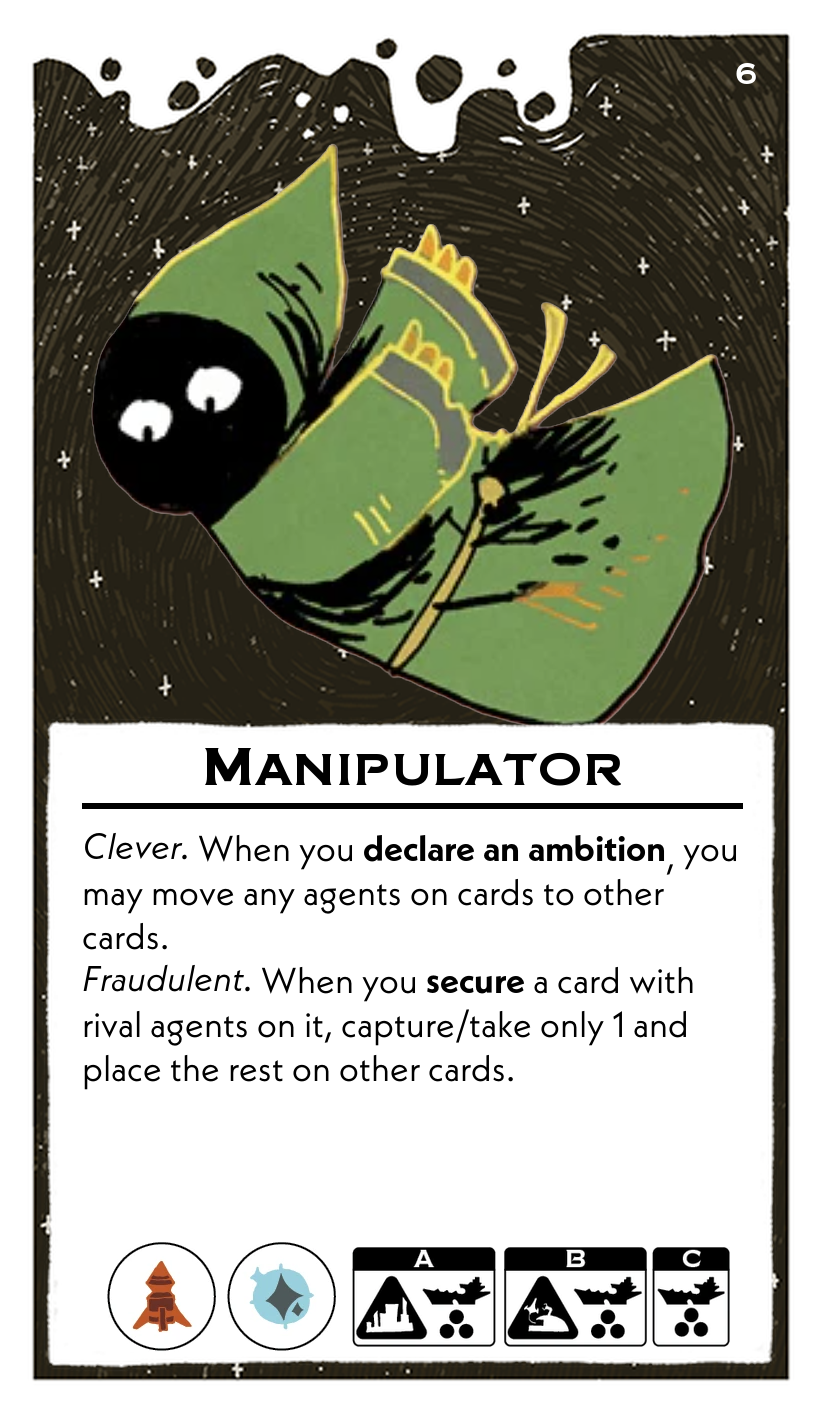
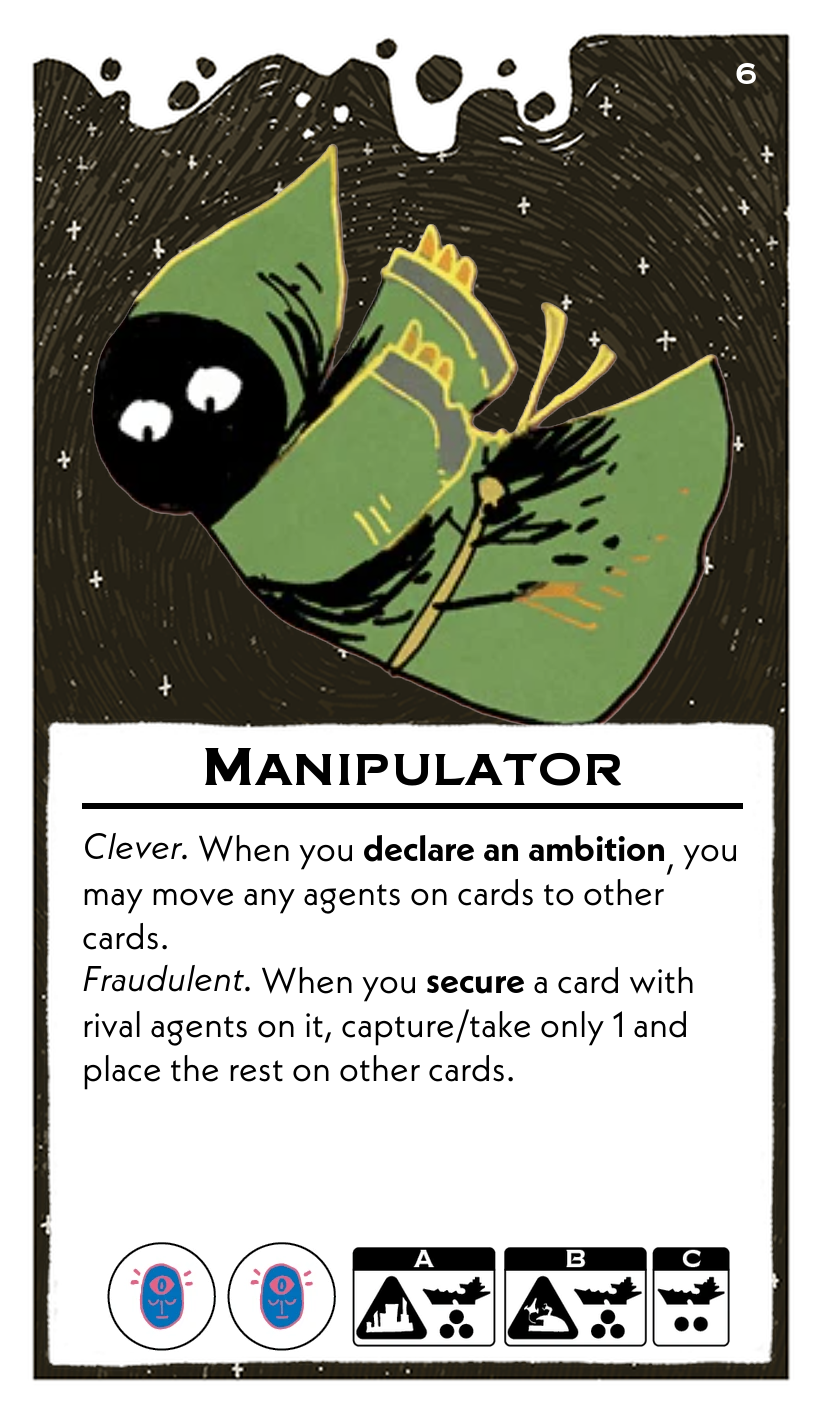
mpwd

Changed region(s): [[0.3041, 0.8713, 0.3954, 0.9646], [0.1521, 0.8713, 0.2433, 0.9646], [0.8212, 0.9024, 0.8516, 0.9646]]

diff --git a/scripts/leadersFormatted.py b/scripts/leadersFormatted.py
@@ -85,11 +85,11 @@ leaders = [
             "*Clever.* When you **declare** **an** **ambition**, you may move any agents on cards to other cards.\n"
             "*Fraudulent.* When you **secure** a card with rival agents on it, capture/take only 1 and place the rest on other cards."
         ),
-        "resources": ["Weapon", "Relic"],
+        "resources": ["Psionic", "Psionic"],
         "setup": {
             "A": {"ships": 3, "building": "city"},
             "B": {"ships": 3, "building": "starport"},
-            "C": {"ships": 3, "building": "None"}
+            "C": {"ships": 2, "building": "None"}
         },
         "body_font_size": 18
     },
@@ -668,7 +668,8 @@ leaders = [
     {
         "name": "Wheeler-dealer",
         "abilities": (
-            "*Cunning.* **Prelude:** When you **declare** **an** **ambition**, you may **Provoke** **Outrage**. \n After you **Provoke** **Outrage**, secure cards from the top of the deck matching the amount of cards you just discarded. Then gain **any** resources matching the amount you've just discarded.\n"
+            "*Devious.* When you **declare** **an** **ambition**, you may **Provoke** **Outrage** in any type.\n"
+            "**Cunning.* After you **Provoke** **Outrage**, secure cards from the top of the deck matching the amount of cards you just discarded. Then gain **any** resources matching the amount you've just discarded.\n"
             "*Irate.* In **setup**, Provoke Relic or Psionic Outrage."
         ),
         "resources": ["Psionic", "Relic"],
